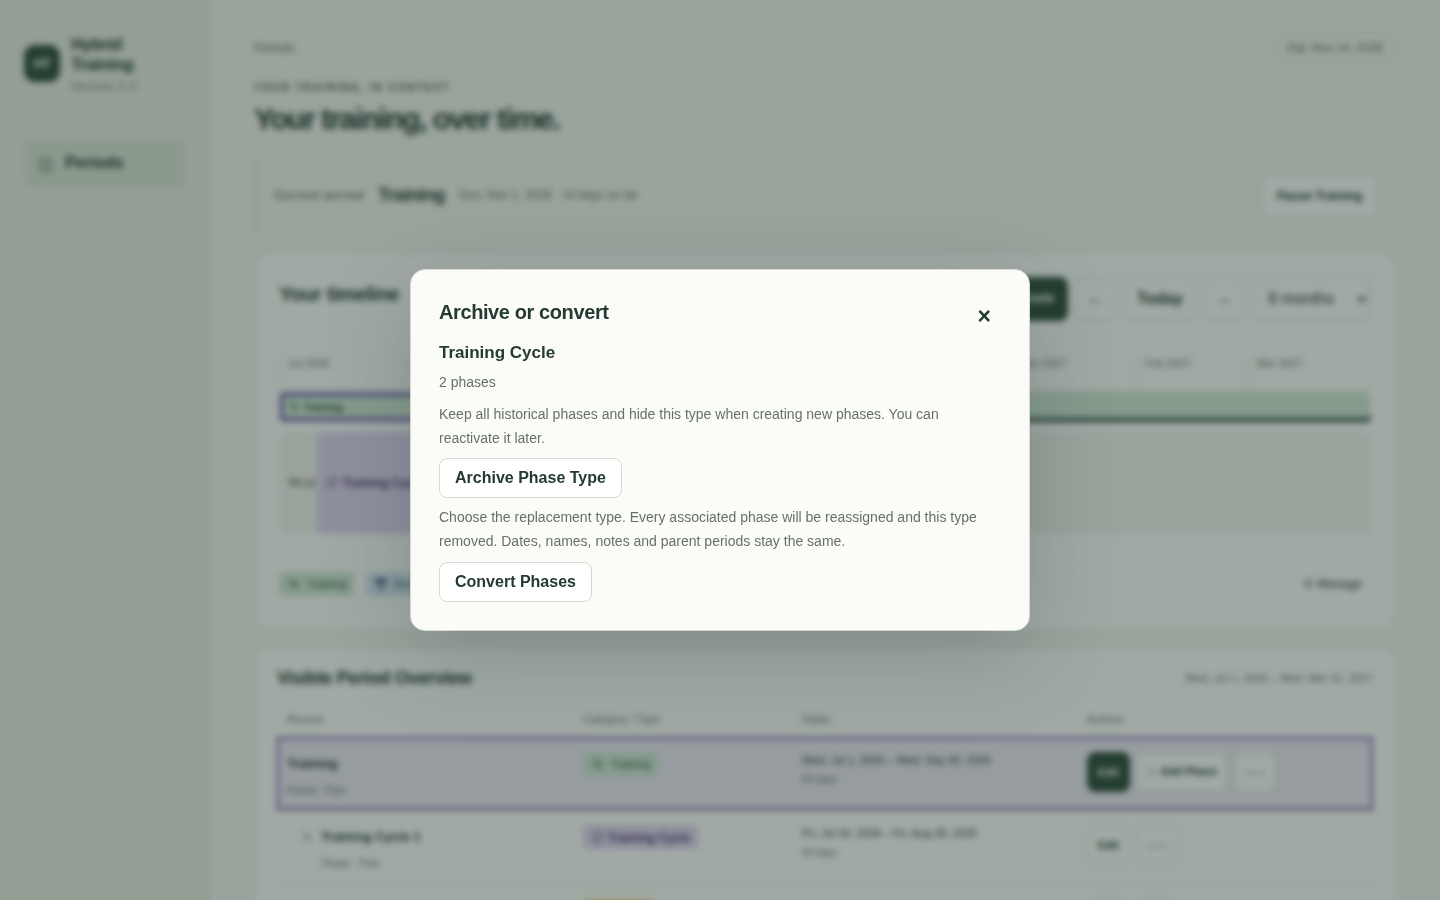
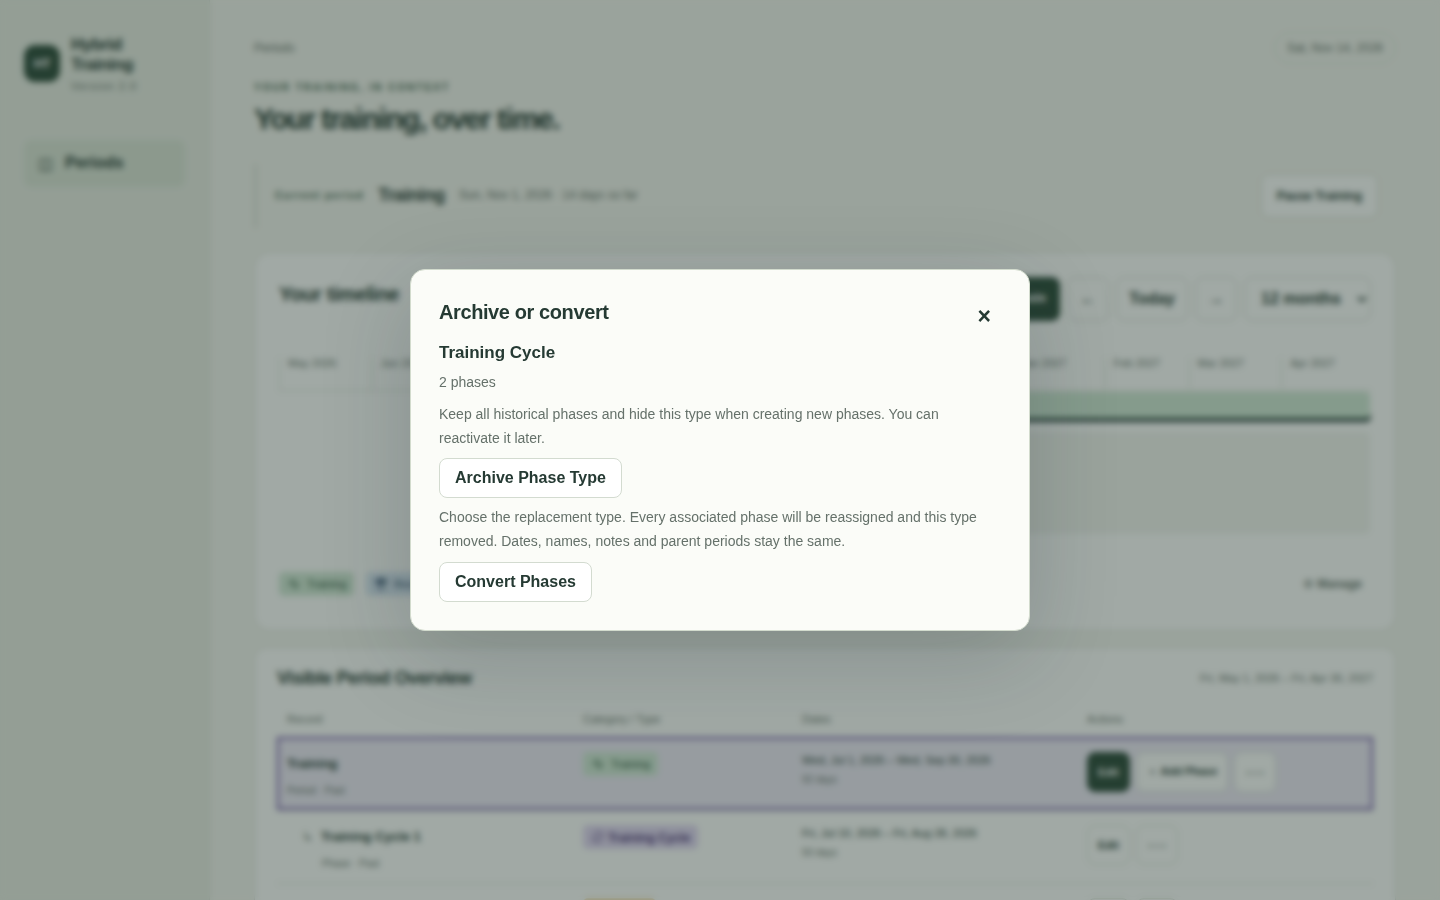
Update visual previews

Changed region(s): [[0.1875, 0.4356, 0.3125, 0.5911], [0.7188, 0.3111, 0.75, 0.3733]]

diff --git a/index.html b/index.html
@@ -1,4 +1,4 @@
 <!doctype html><html lang="cs"><meta charset="utf-8"><meta name="viewport" content="width=device-width,initial-scale=1"><title>Hybrid Training · UI náhledy</title>
 <style>body{font:17px/1.6 system-ui;max-width:1100px;margin:auto;padding:24px;background:#10221b;color:#e3eee7}section{border:1px solid #42604f;border-radius:12px;padding:20px;margin:20px 0}a{color:#c3ed9e}nav{display:flex;flex-wrap:wrap;gap:12px}nav a{padding:12px;border:1px solid #42604f;border-radius:8px}code{overflow-wrap:anywhere}p{color:#b1c7b9}</style>
 <h1>Hybrid Training · UI náhledy</h1><p>Pouze syntetická demonstrační data. Náhledy vznikají po úspěšných testech zdrojového commitu. Identifikace níže patří zachycenému buildu.</p>
-<section><h2>Větev main</h2><p>Verze main · <code>6a807236f0fc1255531d387dc6b5cc53ab70f688</code><br>Vygenerováno 2026-11-15T11:05:17.873000+00:00</p><nav><a href="main/timeline-periods.png">Training, Rest and Unknown — no phases</a><a href="main/phase-type-picker.png">Phase Type — color and semantic icon picker</a><a href="main/timeline-phases.png">Aligned Period strip and proportional Phases</a><a href="main/phase-detail.png">Selected phase and its parent context</a><a href="main/phase-type-lifecycle.png">Archive or explicitly convert historical phases</a><a href="main/phase-type-convert.png">Convert phases — explicit destination and affected count</a><a href="main/training-pause.png">Pause Training — explicit phase shortening preview</a><a href="main/timeline-czech.png">Czech — Periods and Phases</a></nav><p><a href="main/manifest.json">manifest.json</a></p></section><section><h2>PR #9</h2><p>Verze pr-9 · <code>d6efc2eadb8a4622d2defde54e6d20a0af37926e</code><br>Vygenerováno 2026-11-15T15:00:19.841000+00:00</p><nav><a href="pr-9/timeline-periods.png">Training, Rest and Unknown — no phases</a><a href="pr-9/phase-type-picker.png">Phase Type — color and semantic icon picker</a><a href="pr-9/timeline-phases.png">Aligned Period strip and proportional Phases</a><a href="pr-9/phase-detail.png">Selected phase and its parent context</a><a href="pr-9/phase-type-lifecycle.png">Archive or explicitly convert historical phases</a><a href="pr-9/phase-type-convert.png">Convert phases — explicit destination and affected count</a><a href="pr-9/training-pause.png">Pause Training — explicit phase shortening preview</a><a href="pr-9/today-nine-months.png">Today from 2024 retains nine months</a><a href="pr-9/selected-period.png">Selected Period synchronized with the visible-window table</a><a href="pr-9/phase-type-from-draft.png">Phase Type creation from an unfinished Phase</a><a href="pr-9/selected-phase.png">Selected Phase in the hierarchical overview</a><a href="pr-9/unified-phase-editor.png">Unified Phase editor from its table row</a><a href="pr-9/phase-create-timeline.png">Create a Phase from uncovered calendar time</a><a href="pr-9/visible-overview.png">Visible Period Overview — hierarchy and actual dates</a><a href="pr-9/unified-period-editor.png">Unified Period editor from its table row</a><a href="pr-9/period-neighbor-preview.png">Atomic Period edit and both neighboring boundaries</a><a href="pr-9/contextual-advanced-actions.png">Advanced operations belong to their table row</a><a href="pr-9/type-color-preview.png">Phase Type color — state-specific Before and After</a><a href="pr-9/type-icon-preview.png">Phase Type icon — state-specific Before and After</a><a href="pr-9/type-name-preview.png">Phase Type name — state-specific Before and After</a><a href="pr-9/type-conversion-preview.png">Type conversion — original and destination appearances</a><a href="pr-9/timeline-czech.png">Česká časová osa a přehled</a></nav><p><a href="pr-9/manifest.json">manifest.json</a></p></section><footer>Galerie aktualizována 2026-11-15T15:00:38+00:00 · <a href="https://github.com/radeklazok/hybrid-training-preview">Zdroj galerie</a></footer></html>
+<section><h2>Větev main</h2><p>Verze main · <code>6a807236f0fc1255531d387dc6b5cc53ab70f688</code><br>Vygenerováno 2026-11-15T11:05:17.873000+00:00</p><nav><a href="main/timeline-periods.png">Training, Rest and Unknown — no phases</a><a href="main/phase-type-picker.png">Phase Type — color and semantic icon picker</a><a href="main/timeline-phases.png">Aligned Period strip and proportional Phases</a><a href="main/phase-detail.png">Selected phase and its parent context</a><a href="main/phase-type-lifecycle.png">Archive or explicitly convert historical phases</a><a href="main/phase-type-convert.png">Convert phases — explicit destination and affected count</a><a href="main/training-pause.png">Pause Training — explicit phase shortening preview</a><a href="main/timeline-czech.png">Czech — Periods and Phases</a></nav><p><a href="main/manifest.json">manifest.json</a></p></section><section><h2>PR #9</h2><p>Verze pr-9 · <code>df26f21ab70c54d3be83b336257b9b92c2bd4ee8</code><br>Vygenerováno 2026-11-15T15:14:03.961000+00:00</p><nav><a href="pr-9/timeline-periods.png">Training, Rest and Unknown — no phases</a><a href="pr-9/phase-type-picker.png">Phase Type — color and semantic icon picker</a><a href="pr-9/timeline-phases.png">Aligned Period strip and proportional Phases</a><a href="pr-9/phase-detail.png">Selected phase and its parent context</a><a href="pr-9/phase-type-lifecycle.png">Archive or explicitly convert historical phases</a><a href="pr-9/phase-type-convert.png">Convert phases — explicit destination and affected count</a><a href="pr-9/training-pause.png">Pause Training — explicit phase shortening preview</a><a href="pr-9/today-twelve-months.png">Today from 2024 retains twelve months</a><a href="pr-9/timeline-toolbar-dark.png">Timeline toolbar — twelve months in dark mode</a><a href="pr-9/selected-period.png">Selected Period synchronized with the visible-window table</a><a href="pr-9/phase-type-from-draft.png">Phase Type creation from an unfinished Phase</a><a href="pr-9/selected-phase.png">Selected Phase in the hierarchical overview</a><a href="pr-9/unified-phase-editor.png">Unified Phase editor from its table row</a><a href="pr-9/phase-create-timeline.png">Create a Phase from uncovered calendar time</a><a href="pr-9/visible-overview.png">Visible Period Overview — hierarchy and actual dates</a><a href="pr-9/unified-period-editor.png">Unified Period editor from its table row</a><a href="pr-9/period-neighbor-preview.png">Atomic Period edit and both neighboring boundaries</a><a href="pr-9/contextual-advanced-actions.png">Advanced operations belong to their table row</a><a href="pr-9/type-color-preview.png">Phase Type color — state-specific Before and After</a><a href="pr-9/type-icon-preview.png">Phase Type icon — state-specific Before and After</a><a href="pr-9/type-name-preview.png">Phase Type name — state-specific Before and After</a><a href="pr-9/type-conversion-preview.png">Type conversion — original and destination appearances</a><a href="pr-9/timeline-czech.png">Česká časová osa a přehled</a></nav><p><a href="pr-9/manifest.json">manifest.json</a></p></section><footer>Galerie aktualizována 2026-11-15T15:14:25+00:00 · <a href="https://github.com/radeklazok/hybrid-training-preview">Zdroj galerie</a></footer></html>
